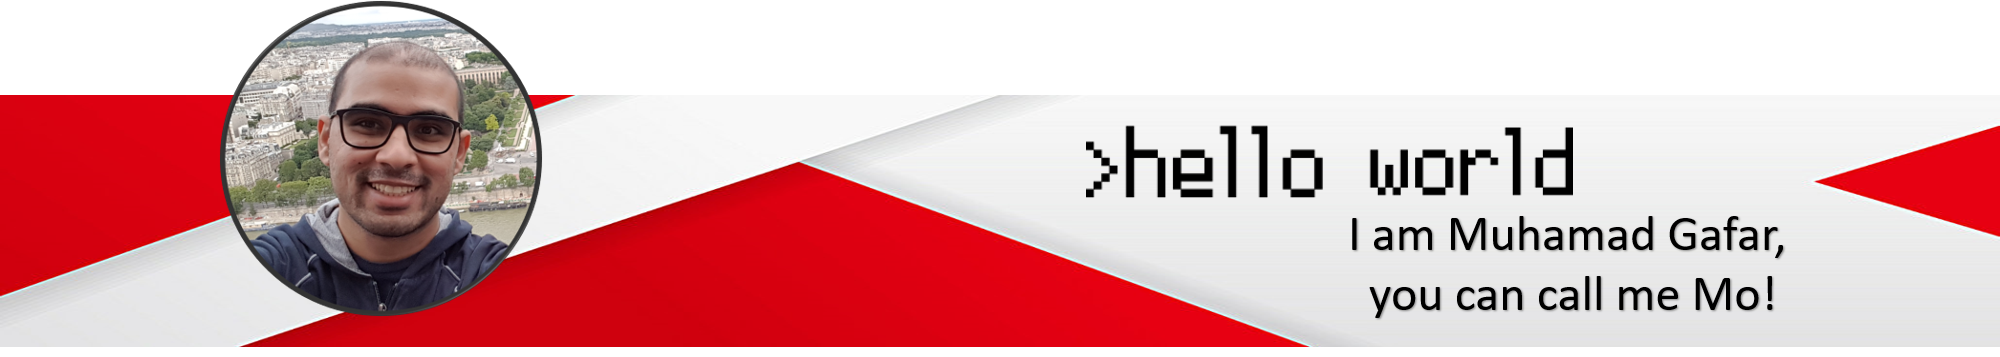
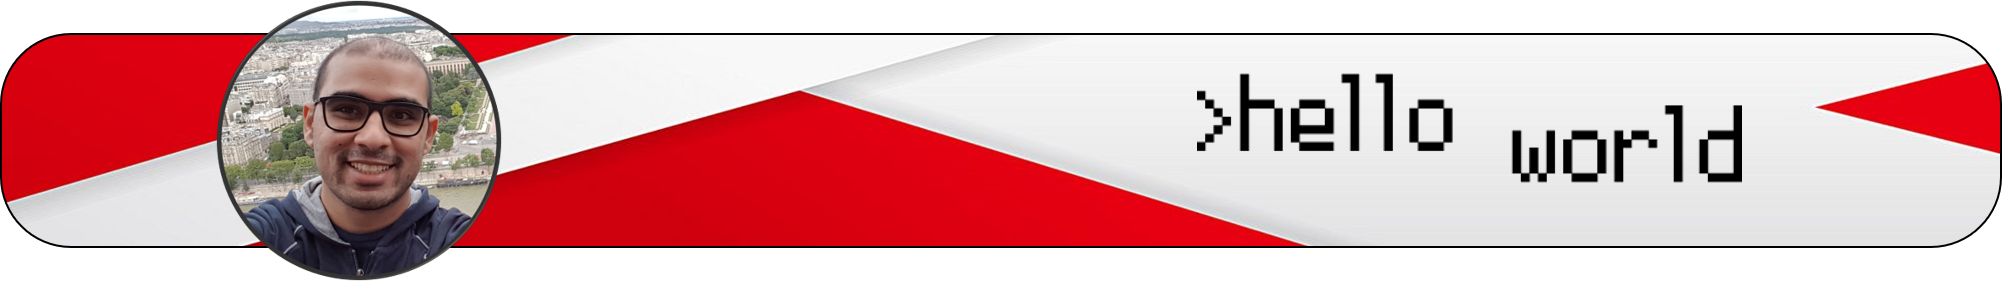
redesign

diff --git a/css/tabs.css b/css/tabs.css
@@ -5,6 +5,8 @@
     margin-left: auto;
     margin-right: auto;
     width: 700px;
+    /*background-image: url("../images/infoheader.jpg");*/
+    /*background: #D3D3D3*/
 }
 
 /* Style the icons used for tabs */
@@ -17,15 +19,18 @@
     width: 80px;
     transition: 0.5s;
     opacity: 0.5;
+    filter: grayscale(100%);
 }
 
 /* Change background color of buttons on hover */
 .tab img:hover {
-    background-color: #ddd;
+    filter: none;
+    opacity: 1;
 }
 
 /* Create an active/current tablink class */
 .tab img.active {
+    filter: none;
     opacity: 1;
 }
 
@@ -33,9 +38,8 @@
 .tabcontent {
     display: none;
     padding: 6px 12px;
-    background-color: #ddd;
-    border: 1px solid #ccc;
     border-top: none;
+    margin-left: 100px;
 } 
 
 .tabcontent {

diff --git a/index.html b/index.html
@@ -9,10 +9,10 @@
 
 	</head>
 
-	<body background="images/background.png">
+	<body>
 
 		<div class="header">
-			<img src="images/banner.png" id="banner">
+			<img src="images/code-background3.png" id="banner">
 		</div>
 
 		<!-- Tab links -->
@@ -33,7 +33,7 @@
 
 		<div id="Education" class="tabcontent">
 		  <h3>Education</h3>
-		  <p>Add CV etc.</p>
+		  <iframe src="https://drive.google.com/file/d/1BD1oET4NIsZtIh58cvoln1mfeVRuZJbs/preview" width=90%></iframe>
 		</div>
 
 		<div id="Drones" class="tabcontent">

diff --git a/css/style.css b/css/style.css
@@ -1,4 +1,17 @@
 #banner{
+   	height: 300px;
 	width: 100%;
-   	height: auto;
+}
+
+#infoheader{
+	height: 400px;
+	width: 40%;
+	float: left;
+	margin-left: 10%;
+	margin-right: 10%;
+}
+
+body {
+    margin: 0;
+    padding: 0;
 }
